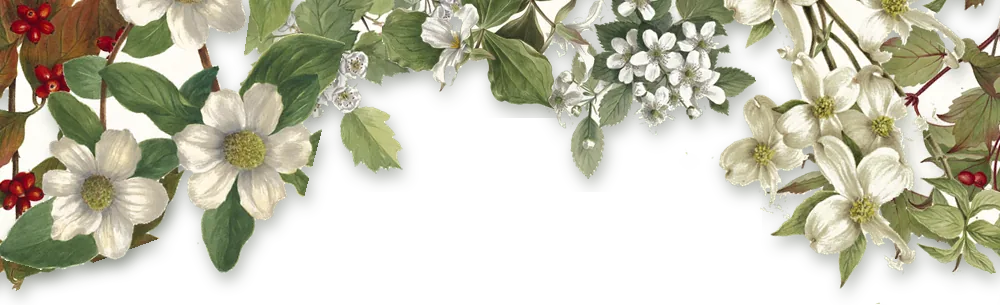
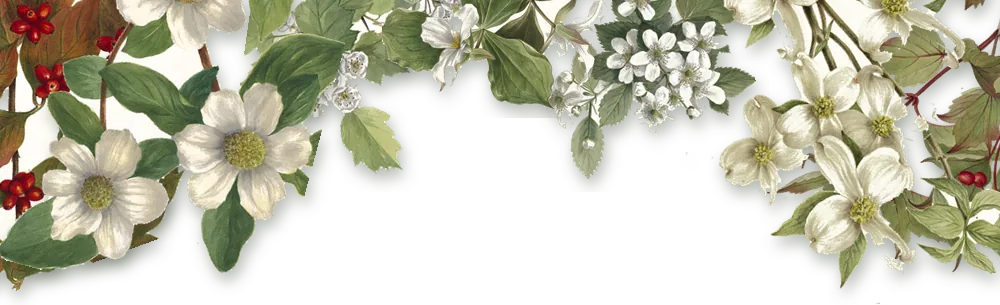
Publish site

diff --git a/style.css b/style.css
@@ -38,6 +38,7 @@ img { display: block; }
   margin: 0 auto;
   background: var(--paper) var(--noise);
   box-shadow: 0 0 60px rgba(47, 61, 36, .22);
+  overflow-x: hidden; /* fallback for browsers without clip */
   overflow-x: clip;
   text-align: center;
 }
@@ -84,7 +85,8 @@ img { display: block; }
   transition: transform 1s cubic-bezier(.6, 0, .3, 1) .35s, z-index 0s .85s;
 }
 .env-flap > * { position: absolute; inset: 0; width: 100%; height: 100%; backface-visibility: hidden; -webkit-backface-visibility: hidden; }
-.env-flap .back { transform: rotateX(180deg); clip-path: polygon(0 0, 100% 0, 50% 100%); background: var(--forest) var(--sprigs); }
+/* Seen once the flap has flipped up: its point must sit at the top of this face. */
+.env-flap .back { transform: rotateX(180deg); clip-path: polygon(0 100%, 100% 100%, 50% 0); background: var(--forest) var(--sprigs); }
 .seal-sprig { z-index: 4; left: 50%; top: 54%; width: 190px; translate: -50% -50%; transition: opacity .4s; }
 .seal { z-index: 5; left: 50%; top: 54%; width: 92px; aspect-ratio: 1; translate: -50% -50%; animation: pulse 2.6s ease-in-out infinite; }
 .seal svg { position: absolute; inset: -8%; width: 116%; height: 116%; transition: transform .7s cubic-bezier(.5, 0, .9, .5), opacity .5s ease .25s; }
@@ -112,7 +114,13 @@ img { display: block; }
 .fab[aria-pressed="true"] .off, .fab[aria-pressed="false"] .on { display: none; }
 
 /* ---------- Hero ---------- */
-.hero { position: relative; height: 100svh; min-height: 36rem; display: grid; place-items: center; overflow: clip; }
+/* The hero stays pinned while the rest of the page slides over it. --h (0 to 1, set on scroll)
+   is how far it has been scrolled away: the flowers drift apart and the card fades back. */
+.hero { position: sticky; top: 0; z-index: 0; height: 100svh; min-height: 36rem; display: grid; place-items: center; overflow: hidden; overflow: clip; }
+.hero .canopy { transform-origin: top; scale: calc(1 + var(--h, 0) * .14); }
+.hero-arch, .hero-text { translate: 0 calc(var(--h, 0) * -60px); opacity: calc(1 - var(--h, 0) * 1.3); }
+.corner.l { translate: calc(var(--h, 0) * -45px) calc(var(--h, 0) * 30px); }
+.corner.r { translate: calc(var(--h, 0) * 45px) calc(var(--h, 0) * 30px); }
 .backdrop { position: absolute; top: 0; left: 0; width: 100%; opacity: .55; }
 .tendrils { position: absolute; top: 0; left: 0; width: 100%; }
 .sway { animation: sway var(--t, 6s) ease-in-out var(--d, 0s) infinite alternate; }
@@ -150,6 +158,16 @@ img { display: block; }
 
 /* ---------- Sections ---------- */
 section { position: relative; padding: 3.5rem 1.5rem; }
+.page > section:not(.hero) { z-index: 1; background: var(--paper) var(--noise); }
+.page > section.countdown { border-radius: 1.75rem 1.75rem 0 0; box-shadow: 0 -14px 36px rgba(47, 61, 36, .16); }
+/* Watercolour branches at the page edges; their drift is set on scroll from data-par. */
+.edge { position: absolute; width: 40%; pointer-events: none; will-change: translate; }
+.edge.l { left: -10%; }
+.edge.r { right: -10%; }
+.venue-wrap .edge.l { top: -2rem; }
+.venue-wrap .edge.r { top: 1.5rem; width: 36%; }
+.story .edge { top: -4.5rem; width: 36%; }
+.rsvp .edge { top: -5rem; width: 36%; }
 h2.script { color: var(--forest); font-size: clamp(2.5rem, 12vw, 3.3rem); line-height: 1.15; }
 .sub { color: var(--muted); margin-top: .75rem; }
 .rule { width: 70%; margin: 0 auto 2.25rem; }
@@ -164,7 +182,7 @@ h2.script { color: var(--forest); font-size: clamp(2.5rem, 12vw, 3.3rem); line-h
 @keyframes tick { from { opacity: .2; transform: translateY(-6px); } }
 
 .venue-wrap { padding: 1rem 1.25rem 3.5rem; }
-.venue { position: relative; background: linear-gradient(var(--forest-hi), var(--forest)); color: var(--card); border-radius: 15rem 15rem 1rem 1rem; padding: 4.5rem 1.5rem 2.75rem; }
+.venue { position: relative; z-index: 1; scale: calc(.92 + var(--p, 1) * .08); background: linear-gradient(var(--forest-hi), var(--forest)); color: var(--card); border-radius: 15rem 15rem 1rem 1rem; padding: 4.5rem 1.5rem 2.75rem; }
 .venue::before { content: ""; position: absolute; inset: 0; border-radius: inherit; background: var(--noise); opacity: .5; pointer-events: none; }
 .venue::after { content: ""; position: absolute; inset: 9px; border: 1px solid rgba(250, 246, 237, .28); border-radius: 15rem 15rem .6rem .6rem; pointer-events: none; }
 .venue > * { position: relative; }
@@ -181,14 +199,15 @@ h2.script { color: var(--forest); font-size: clamp(2.5rem, 12vw, 3.3rem); line-h
 #schedule { margin: 3rem auto 0; max-width: 22rem; text-align: left; }
 #schedule li { position: relative; display: grid; grid-template-columns: 4.6rem 1fr; gap: 3rem; padding-bottom: 2.75rem; }
 #schedule li::before { content: ""; position: absolute; left: 5.9rem; top: .55rem; width: .6rem; height: .6rem; border-radius: 50%; background: var(--forest); box-shadow: 0 0 0 4px var(--paper), 0 0 0 5px rgba(184, 147, 90, .6); }
-#schedule li::after { content: ""; position: absolute; left: calc(6.2rem - .5px); top: 1.6rem; bottom: .1rem; width: 1px; background: rgba(125, 120, 98, .5); }
+#schedule li::after { content: ""; position: absolute; left: calc(6.2rem - .5px); top: 1.6rem; bottom: .1rem; width: 1px; background: rgba(125, 120, 98, .5); transform-origin: top; transform: scaleY(var(--p, 1)); }
 #schedule li:last-child { padding-bottom: 0; }
 #schedule li:last-child::after { display: none; }
 #schedule time { font-size: 1.5rem; text-align: right; font-variant-numeric: lining-nums tabular-nums; }
 #schedule h3, #story h3 { font: inherit; text-transform: uppercase; letter-spacing: .28em; font-size: .78rem; padding-top: .45rem; }
 #schedule p, #story p { font-style: italic; color: var(--muted); margin-top: .5rem; }
 
-.story { background: var(--band); padding: 3rem 1.5rem; }
+.page > section.story { background: var(--band); padding: 5rem 1.5rem 3rem; }
+.fringe { position: absolute; top: 0; left: 0; width: 100%; }
 #story { margin-top: 2.5rem; display: grid; gap: 2.75rem; }
 #story li { position: relative; }
 #story li + li::before { content: ""; position: absolute; left: 50%; top: -2.1rem; height: 1.5rem; width: 1px; background: var(--gold); }
@@ -229,4 +248,6 @@ footer a { display: inline-block; margin-top: .75rem; color: var(--card); font-s
   *, *::before, *::after { animation: none !important; transition-duration: .01s !important; transition-delay: 0s !important; }
   .h-in, .reveal { opacity: 1; transform: none; }
   #leaves { display: none !important; }
+  .hero .canopy, .hero-arch, .hero-text, .corner, .edge { translate: none !important; }
+  .hero-arch, .hero-text { opacity: 1 !important; }
 }

diff --git a/app.js b/app.js
@@ -158,6 +158,12 @@ const ART = {
   rule(R) {
     return svg(240, 30, '<path d="M20 15H102M138 15H220" stroke="#b8935a" stroke-width=".8"/>' + at(106, 15, 200, spray(R, 22, .1)) + at(134, 15, -20, spray(R, 22, -.1)) + bloom(R, 120, 15, 1.3));
   },
+  // Short swaying strands hanging from a section's top edge.
+  fringe(R) {
+    let g = '';
+    for (let x = 12; x < 400; x += 26 + R() * 16) g += `<g transform="translate(${n1(x)} 0)"><g class="sway" style="--t:${n1(4 + R() * 3)}s;--d:${n1(-R() * 5)}s">${at(0, 0, 90 + R() * 10 - 5, spray(R, 20 + R() * 40, R() * .2 - .1))}</g></g>`;
+    return svg(400, 70, g);
+  },
   // Greenery tucked under the wax seal.
   tuck(R) {
     return svg(190, 60, at(88, 30, 190, spray(R, 78, .08)) + at(102, 30, -10, spray(R, 78, -.08)));
@@ -191,7 +197,6 @@ $('#seal').innerHTML = seal('l') + seal('r');
   const R = rng(42);
   $('#leaves').innerHTML = ['#8a9a6b', '#4f5e34', '#fffdf6', '#a56e37', '#fffdf6', '#8a9a6b'].map(c =>
     `<div class="leaf" style="--x:${n1(R() < .5 ? R() * 7 : 90 + R() * 6)}%;--s:${n1(11 + R() * 9)}px;--t:${n1(12 + R() * 9)}s;--d:${n1(-R() * 20)}s"><svg viewBox="-2 -8 24 16"><path d="${leaf(20, 6.5)}" fill="${c}" stroke="#d6cbb2" stroke-width=".5" opacity=".9"/></svg></div>`).join('');
-  new IntersectionObserver(([e]) => $('.hero').classList.toggle('away', !e.isIntersecting)).observe($('.hero'));
 }
 
 // ---------- Text ----------
@@ -315,6 +320,30 @@ function openSound() {
     o.connect(g).connect(ac.destination); o.start(now + 1.3 + i * .14); o.stop(now + 3.6 + i * .14);
   });
   setTimeout(() => ac.close(), 5000);
+}
+
+// ---------- Scroll-linked motion ----------
+// --h fades the pinned hero as the page covers it; side branches drift at their own speed
+// (data-par); the venue card and the timeline lines grow as they enter (--p).
+{
+  const hero = $('.hero'), branches = $$('[data-par]');
+  let queued = false;
+  const update = () => {
+    queued = false;
+    const vh = innerHeight, h = Math.min(1, scrollY / vh);
+    hero.style.setProperty('--h', h.toFixed(3));
+    hero.classList.toggle('away', h === 1); // covered: pause its animations
+    for (const el of branches) {
+      const r = el.parentElement.getBoundingClientRect();
+      if (r.bottom > -vh && r.top < 2 * vh) el.style.translate = `0 ${((r.top - vh / 2) / vh * el.dataset.par * 120).toFixed(1)}px`;
+    }
+    for (const el of $$('[data-grow], #schedule li')) {
+      const p = (vh * .9 - el.getBoundingClientRect().top) / (vh * .5);
+      el.style.setProperty('--p', Math.max(0, Math.min(1, p)).toFixed(3));
+    }
+  };
+  addEventListener('scroll', () => { if (!queued) { queued = true; requestAnimationFrame(update); } }, { passive: true });
+  update();
 }
 
 // ---------- Opening ----------

diff --git a/index.html b/index.html
@@ -12,7 +12,7 @@
 <link rel="preconnect" href="https://fonts.googleapis.com">
 <link rel="preconnect" href="https://fonts.gstatic.com" crossorigin>
 <link rel="stylesheet" href="https://fonts.googleapis.com/css2?family=Cormorant+Garamond:ital,wght@0,400;0,500;1,400&family=Pinyon+Script&display=swap">
-<link rel="stylesheet" href="style.css?v=2">
+<link rel="stylesheet" href="style.css?v=3">
 </head>
 <body class="locked">
 
@@ -93,7 +93,9 @@
   </section>
 
   <section class="venue-wrap">
-    <div class="venue reveal">
+    <img class="edge l" data-par="-.3" src="assets/edge-dogwood.webp" alt="" loading="lazy">
+    <img class="edge r" data-par=".45" src="assets/edge-blackberry.webp" alt="" loading="lazy">
+    <div class="venue reveal" data-grow>
       <div class="art sprig" data-art="stem"></div>
       <h2 class="script" data-i18n="venueTitle"></h2>
       <p class="caps sub" data-i18n="venueSub"></p>
@@ -114,6 +116,8 @@
   </section>
 
   <section class="story">
+    <div class="art fringe" data-art="fringe"></div>
+    <img class="edge r" data-par=".4" src="assets/edge-berries.webp" alt="" loading="lazy">
     <h2 class="script reveal" data-i18n="storyTitle"></h2>
     <p class="caps sub reveal" data-i18n="storySub"></p>
     <ol id="story"></ol>
@@ -126,6 +130,7 @@
   </section>
 
   <section class="rsvp">
+    <img class="edge l" data-par="-.35" src="assets/edge-trillium.webp" alt="" loading="lazy">
     <div class="art rule reveal" data-art="rule"></div>
     <h2 class="script reveal" data-i18n="rsvpTitle"></h2>
     <p class="caps sub reveal" data-rsvp-by></p>
@@ -155,6 +160,6 @@
   </footer>
 </main>
 
-<script src="app.js?v=2"></script>
+<script src="app.js?v=3"></script>
 </body>
 </html>
